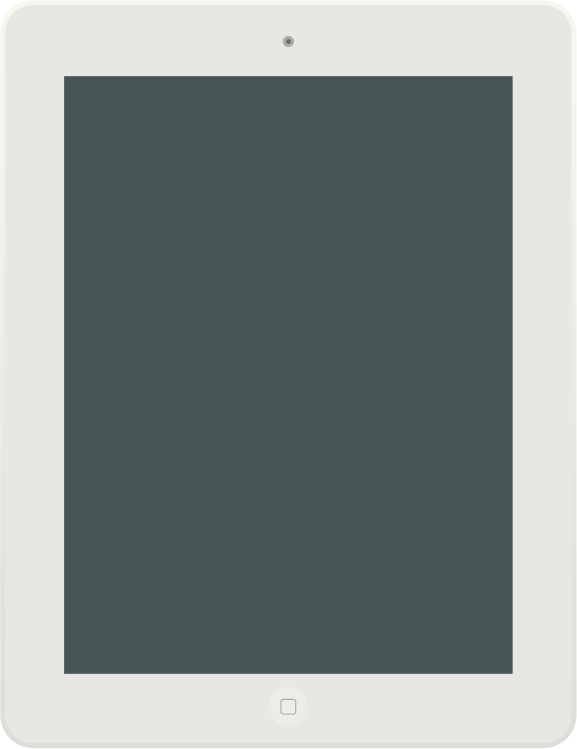
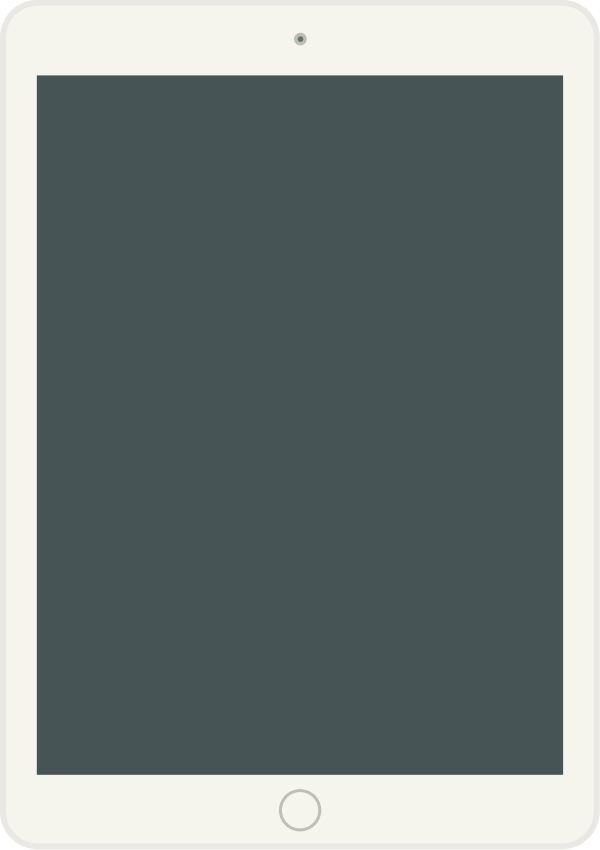
Update device frame

Changed region(s): [[0.0624, 0.0307, 0.9671, 0.9826]]

diff --git a/app/assets/styles/_components.scss b/app/assets/styles/_components.scss
@@ -88,27 +88,34 @@
 }
 
 .viewport-pc {
-  $width: $preview-width - 1px * 2;
-  border: 1px solid #ddd;
-  @include scale-viewport(1024px, 1600px, $width);
+  $padding: 1px;
+  $viewport-width: $preview-width - $padding * 2;
+  border: $padding solid #ddd;
+  @include scale-viewport(1024px, 1600px, $viewport-width);
 }
 .viewport-tablet {
-  $width: $preview-width - 42px * 2;
-  height: 467px;
-  padding: 50px 42px 0;
+  $width: 360px;
+  $height: 510px;
+  $padding: 24px;
+  $viewport-width: $preview-width - $padding * 2;
+  height: $height;
+  padding: 47px $padding 0;
   background-image: url(../images/tablet.png);
-  background-size: 360px 467px;
+  background-size: $width $height;
   background-repeat: no-repeat;
-  @include scale-viewport(768px, 1024px, $width);
+  @include scale-viewport(768px, 1024px, $viewport-width);
 }
 .viewport-smartphone {
-  $width: $preview-width - 25px * 2;
-  height: 720px;
-  padding: 83px 25px 0;
+  $width: 360px;
+  $height: 720px;
+  $padding: 25px;
+  $viewport-width: $preview-width - $padding * 2;
+  height: $height;
+  padding: 83px $padding 0;
   background-image: url(../images/smartphone.png);
-  background-size: 360px 720px;
+  background-size: $width $height;
   background-repeat: no-repeat;
-  @include scale-viewport(375px, 667px, $width);
+  @include scale-viewport(375px, 667px, $viewport-width);
 }
 
 // Notifier
